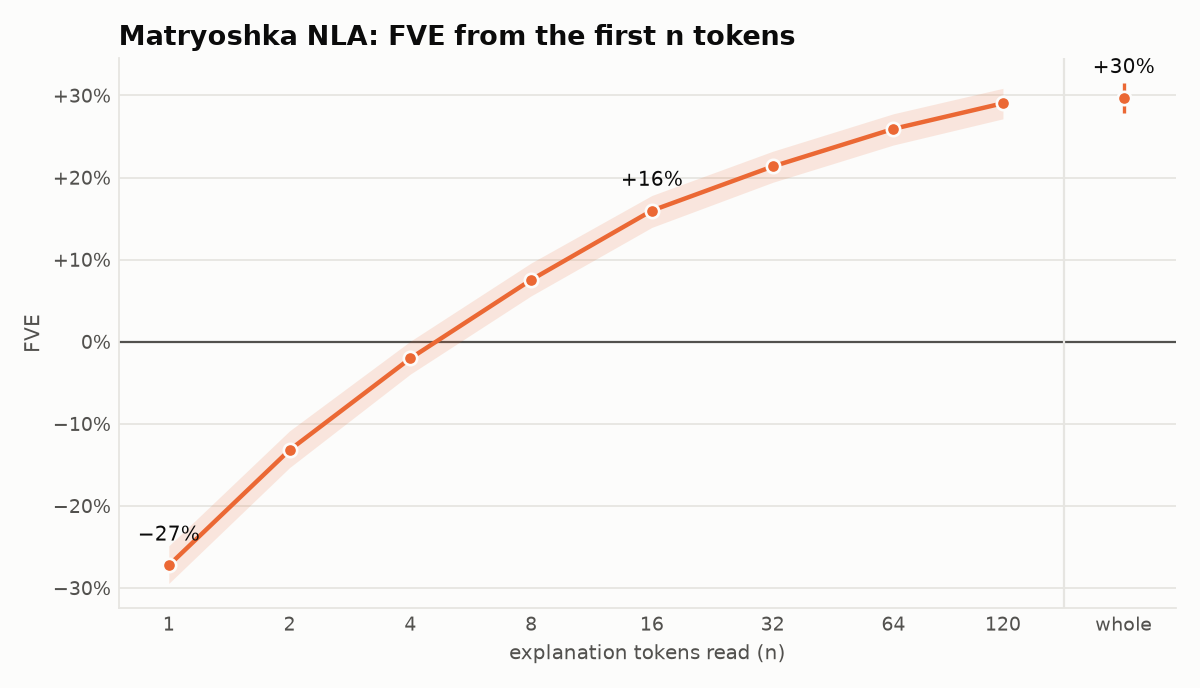
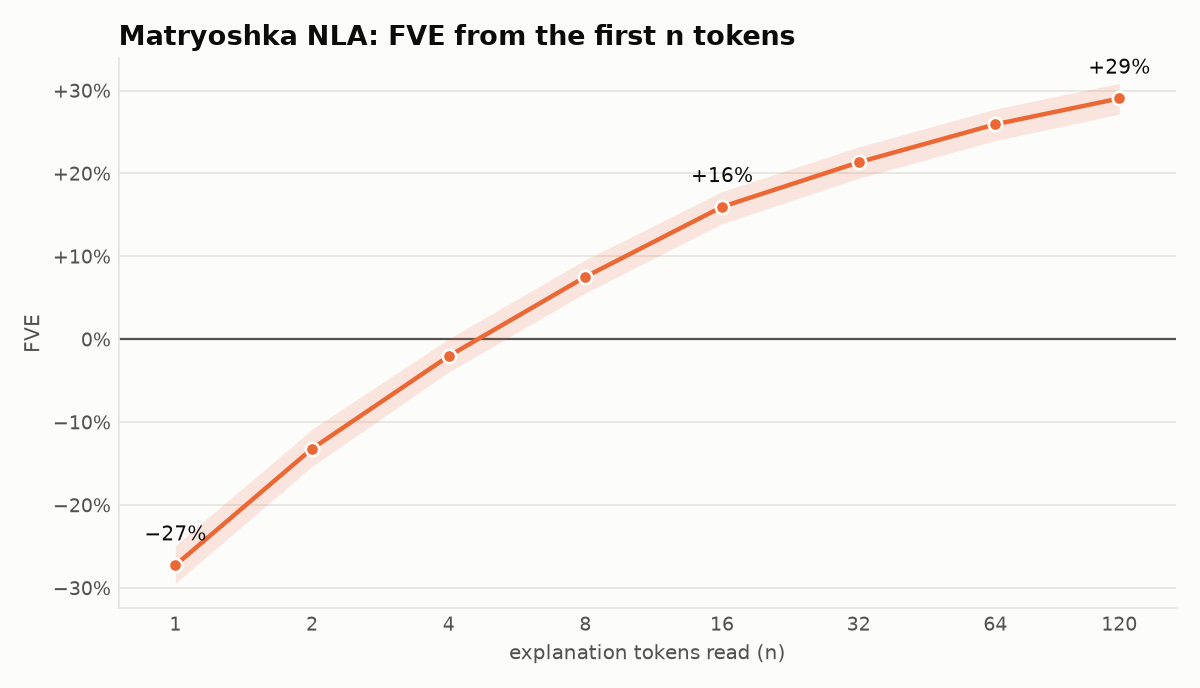
Head NLA: FVE-by-token figure stops at 120 tokens, the longest prefix matryoshka trained on (no "whole" point)
Claude-Session: https://claude.ai/code/session_01XurwTUm8G3UyEr7SWoMWmT

diff --git a/scripts/heads_mtry_quality_plots.py b/scripts/heads_mtry_quality_plots.py
@@ -375,31 +375,26 @@ def main() -> None:
     fig.savefig(out / "head_nla_l24_mtry_marginal_by_head.png", facecolor=SURF)
     plt.close(fig)
 
-    # ---- 7. matryoshka: FVE from the first n tokens ----
+    # ---- 7. matryoshka: FVE from the first n tokens (1 … 120, the range it was trained on) ----
     r = R[LINES[0][1]]
-    num = LS[1:-1]                                                             # 1 … 120
+    num = LS[1:-1]
     xs = [int(L) for L in num]
-    xw = 240                                                                   # "whole", set apart on the log axis
     y = 100 * np.array(r["fve"][1:-1])
     lo, hi = (100 * np.array([c[i] for c in r["fve_ci"][1:-1]]) for i in (0, 1))
-    fw, (wl, wh) = 100 * r["fve"][-1], (100 * v for v in r["fve_ci"][-1])
     fig, ax = plt.subplots(figsize=(7.5, 4.3), dpi=160)
     fig.patch.set_facecolor(SURF)
     style(ax)
     ax.axhline(0, color=INK2, lw=1, zorder=1)
-    ax.axvline(170, color=GRID, lw=1, zorder=1)
     ax.fill_between(xs, lo, hi, color=MTRY_C, alpha=0.15, lw=0)
     ax.plot(xs, y, color=MTRY_C, lw=2, marker="o", ms=6, mec=SURF, mew=1.2, zorder=3)
-    ax.errorbar([xw], [fw], yerr=[[fw - wl], [wh - fw]], fmt="o", color=MTRY_C, ms=6, mec=SURF, mew=1.2,
-                elinewidth=1.5, capsize=0, zorder=3)
-    for xv, yv in ((1, y[0]), (16, y[num.index("16")]), (xw, fw)):
+    for xv, yv in ((1, y[0]), (16, y[num.index("16")]), (120, y[-1])):
         ax.annotate(pct(yv / 100), (xv, yv), xytext=(0, 9), textcoords="offset points", ha="center", va="bottom",
                     fontsize=9, color=INK)
     ax.set_xscale("log", base=2)
-    ax.set_xticks(xs + [xw])
-    ax.set_xticklabels([str(v) for v in xs] + ["whole"])
+    ax.set_xticks(xs)
+    ax.set_xticklabels([str(v) for v in xs])
     ax.minorticks_off()
-    ax.set_xlim(0.75, xw * 1.35)
+    ax.set_xlim(0.75, 160)
     pcty(ax)
     ax.set_xlabel("explanation tokens read (n)", color=INK2, fontsize=9)
     ax.set_ylabel("FVE", color=INK2, fontsize=9)

diff --git a/docs/head_nla_results.md b/docs/head_nla_results.md
@@ -383,8 +383,9 @@ matryoshka curve alone.
 ![Matryoshka FVE from the first n tokens](head_nla_l24_mtry_fve_by_token.png)
 
 `head_nla_l24_mtry_fve_by_token.png`: the matryoshka pair's FVE when the AR reads the first n explanation tokens, pooled
-over the 2,000 held-out writes. The band is a 95% bootstrap over writes. It is −27% at 1 token, −2% at 4, +16% at 16,
-+29% at 120 and +30% for whole explanations. The figures carry no descriptions; captions live here.
+over the 2,000 held-out writes. The band is a 95% bootstrap over writes. It is −27% at 1 token, −2% at 4, +16% at 16
+and +29% at 120. It stops at 120 tokens, the longest prefix matryoshka trained on. The figures carry no descriptions;
+captions live here.
 
 ![Marginal FVE at each truncation point](head_nla_l24_mtry_marginal_fve.png)
 
